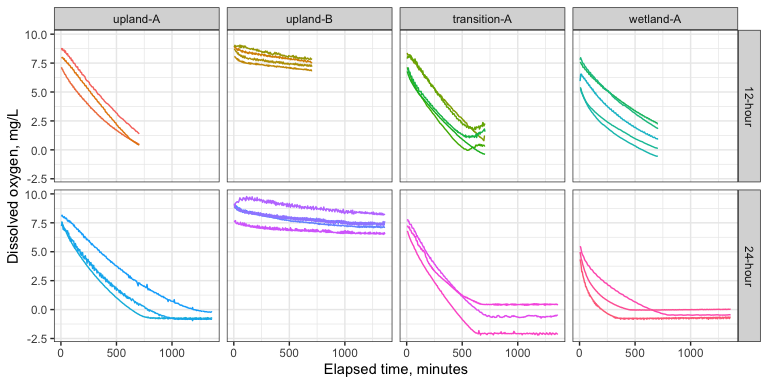
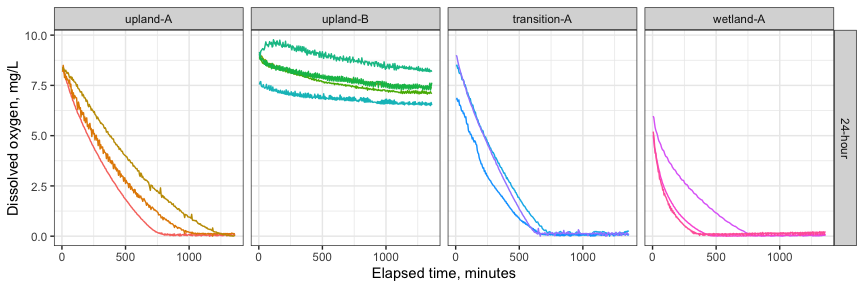
plot corrected do

Changed region(s): [[0.0, 0.0, 1.0, 1.0], [0.0312, 0.7812, 0.0938, 0.8438]]

diff --git a/3-reports/anoxia_report.md b/3-reports/anoxia_report.md
@@ -11,8 +11,6 @@ centrifuged and filtered, and analyzed for dissolved nutrients
 
 ## Optode data (dissolved oxygen)
 
-![](anoxia_report_files/figure-gfm/optode_group_all-1.png)<!-- -->
-
 ![](anoxia_report_files/figure-gfm/optode_group_subset-1.png)<!-- -->
 
 ![](anoxia_report_files/figure-gfm/optode_indiv_all-1.png)<!-- -->
@@ -81,17 +79,16 @@ Date run: 2022-10-11
     ## [13] pillar_1.8.1      rlang_1.0.5       curl_4.3.2        readxl_1.4.1     
     ## [17] rstudioapi_0.14   data.table_1.14.2 callr_3.7.2       rmarkdown_2.16   
     ## [21] labeling_0.4.2    googledrive_2.0.0 igraph_1.3.4      munsell_0.5.0    
-    ## [25] broom_1.0.0       janitor_2.1.0     compiler_4.2.1    modelr_0.1.9     
-    ## [29] xfun_0.32         pkgconfig_2.0.3   askpass_1.1       htmltools_0.5.3  
-    ## [33] openssl_2.0.2     tidyselect_1.1.2  codetools_0.2-18  fansi_1.0.3      
-    ## [37] crayon_1.5.1      tzdb_0.3.0        dbplyr_2.2.1      withr_2.5.0      
-    ## [41] rappdirs_0.3.3    grid_4.2.1        jsonlite_1.8.0    gtable_0.3.0     
-    ## [45] lifecycle_1.0.1   DBI_1.1.3         magrittr_2.0.3    scales_1.2.1     
-    ## [49] cli_3.3.0         stringi_1.7.8     farver_2.1.1      fs_1.5.2         
-    ## [53] snakecase_0.11.0  xml2_1.3.3        ellipsis_0.3.2    generics_0.1.3   
-    ## [57] vctrs_0.4.1       tools_4.2.1       glue_1.6.2        hms_1.1.2        
-    ## [61] fastmap_1.1.0     processx_3.7.0    yaml_2.3.5        colorspace_2.0-3 
-    ## [65] gargle_1.2.0      base64url_1.4     rvest_1.0.3       knitr_1.40       
-    ## [69] haven_2.5.1
+    ## [25] broom_1.0.0       compiler_4.2.1    modelr_0.1.9      xfun_0.32        
+    ## [29] pkgconfig_2.0.3   askpass_1.1       htmltools_0.5.3   openssl_2.0.2    
+    ## [33] tidyselect_1.1.2  codetools_0.2-18  fansi_1.0.3       crayon_1.5.1     
+    ## [37] tzdb_0.3.0        dbplyr_2.2.1      withr_2.5.0       rappdirs_0.3.3   
+    ## [41] grid_4.2.1        jsonlite_1.8.0    gtable_0.3.0      lifecycle_1.0.1  
+    ## [45] DBI_1.1.3         magrittr_2.0.3    scales_1.2.1      cli_3.3.0        
+    ## [49] stringi_1.7.8     farver_2.1.1      fs_1.5.2          xml2_1.3.3       
+    ## [53] ellipsis_0.3.2    generics_0.1.3    vctrs_0.4.1       tools_4.2.1      
+    ## [57] glue_1.6.2        hms_1.1.2         fastmap_1.1.0     processx_3.7.0   
+    ## [61] yaml_2.3.5        colorspace_2.0-3  gargle_1.2.0      base64url_1.4    
+    ## [65] rvest_1.0.3       knitr_1.40        haven_2.5.1
 
 </details>
